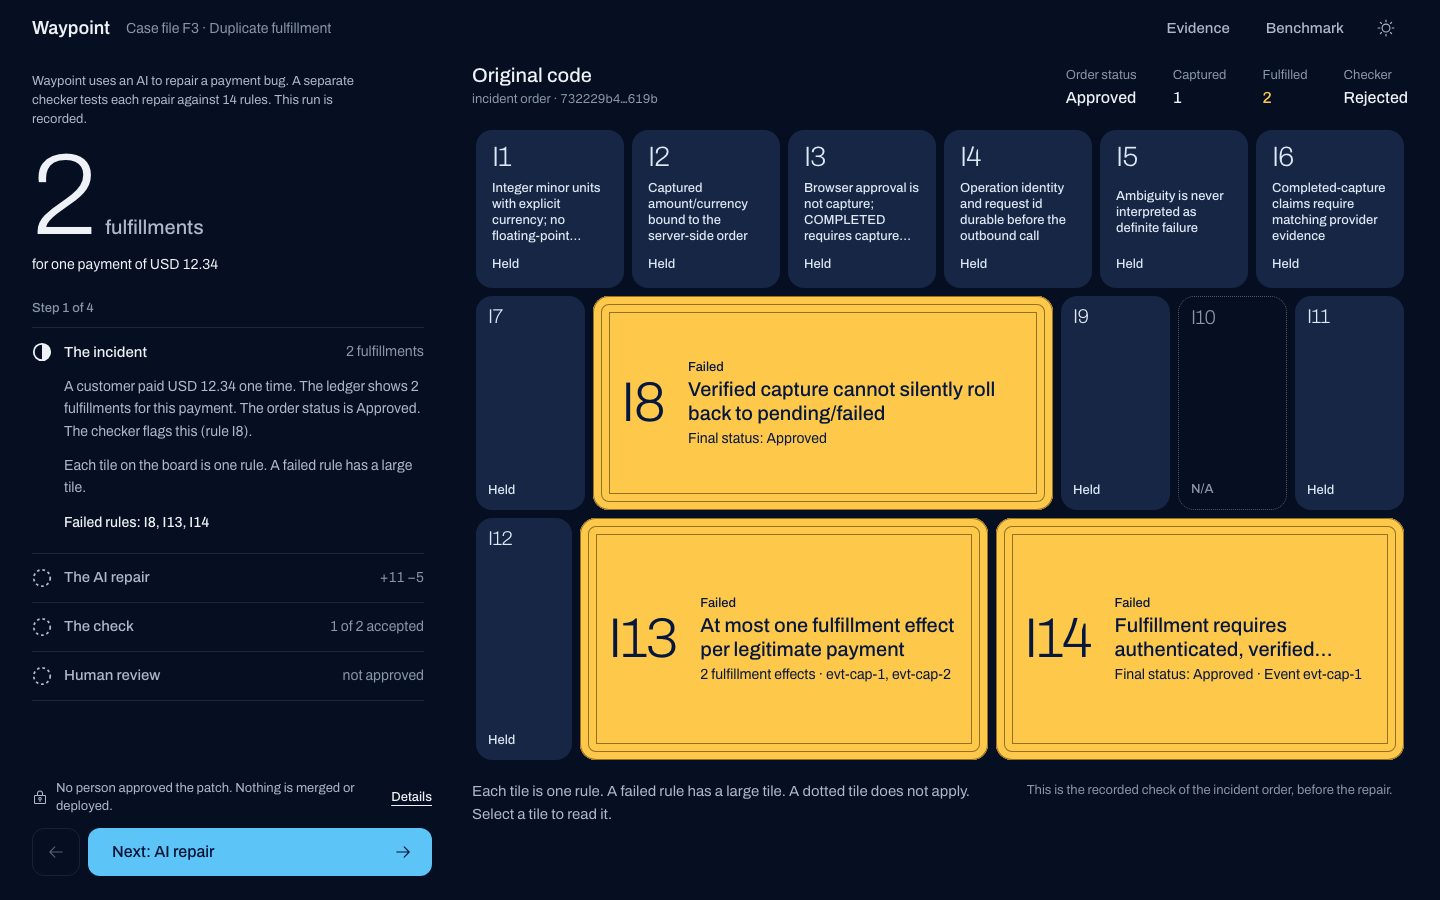
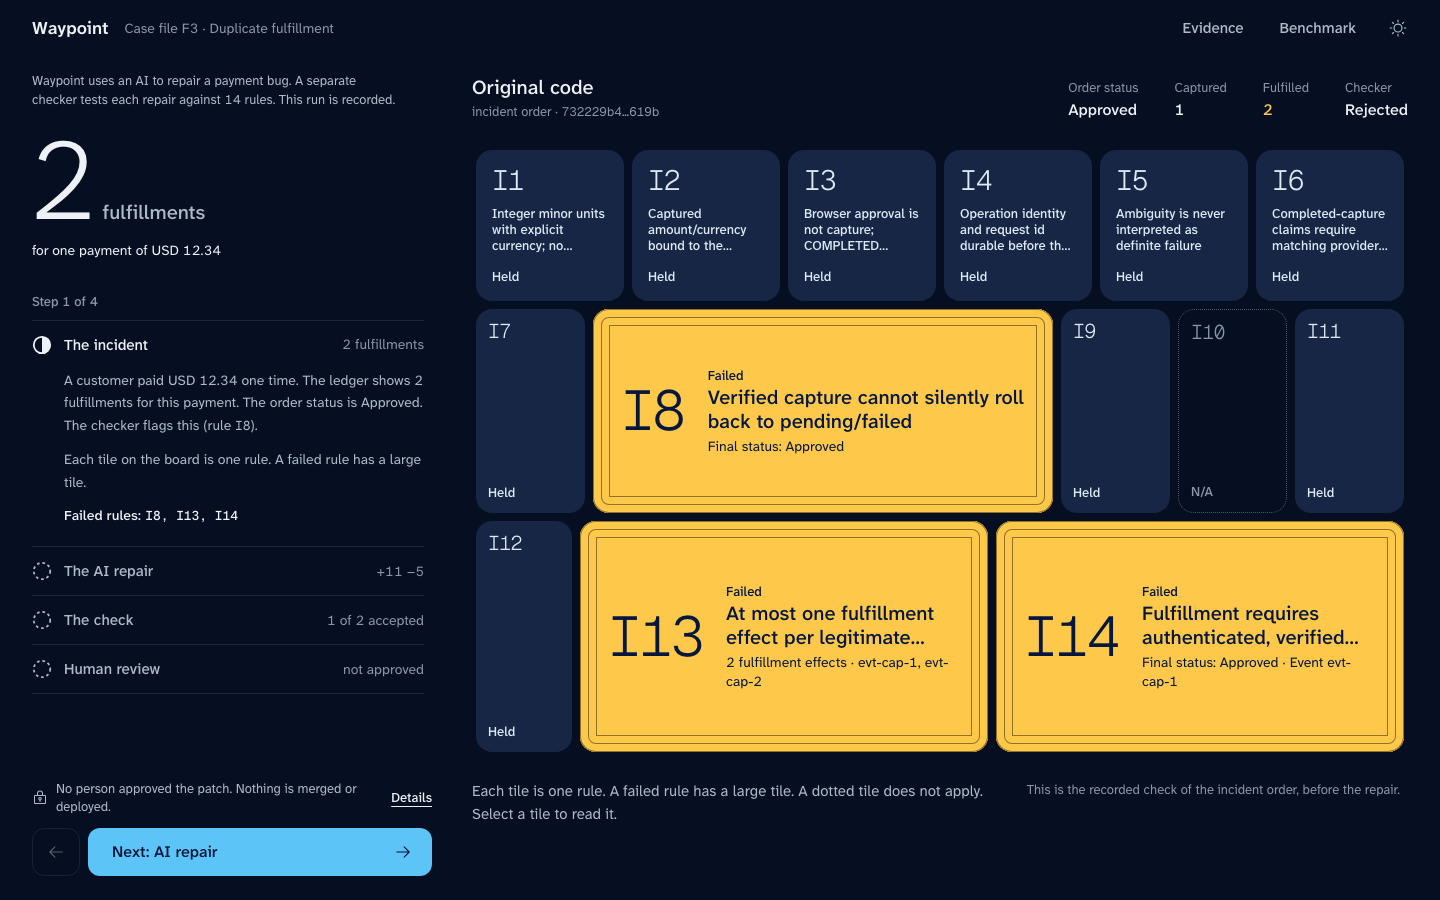
web: Atkinson Hyperlegible Next, mono rule ids and a steadier spacing rhythm
The capital I in a rule id read as the digit 1 (I11 looked like 111). Text now
uses Atkinson Hyperlegible Next, built to keep I, l and 1 apart, and every
rule id is set in Geist Mono, where I has serifs and 0 is slashed. Tile text
is top-aligned under the id with the state at the foot, the rail and stage
share one top line, the header's right edge lines up with the board, and
section gaps follow one scale.

diff --git a/apps/web/src/components/waypoint/experience.tsx b/apps/web/src/components/waypoint/experience.tsx
@@ -160,7 +160,7 @@ function Instrument({ doc, source }: { doc: DemoExport; source: EvidenceSource }
           <span className="text-[18px] font-semibold">Waypoint</span>
           <span className="truncate text-[14px] text-faint max-sm:hidden" data-testid="case-label">{caseLabel}</span>
         </div>
-        <nav aria-label="Primary" className="flex items-center gap-1">
+        <nav aria-label="Primary" className="flex items-center gap-1 sm:-mr-3">
           <button type="button" onClick={() => setDrawer(true)} className="inline-flex min-h-11 items-center rounded-[10px] px-4 text-[15px] font-medium text-muted transition-colors hover:text-ink">
             Evidence
           </button>
@@ -177,7 +177,7 @@ function Instrument({ doc, source }: { doc: DemoExport; source: EvidenceSource }
             <p className="max-w-[44ch] text-[13px] leading-[1.45] text-muted">
               Waypoint uses an AI to repair a payment bug. A separate checker tests each repair against {ruleCount} rules. This run is {source === "recorded" ? "recorded" : "local"}.
             </p>
-            <div key={step} className="enter mt-5" data-testid="hero">
+            <div key={step} className="enter mt-6" data-testid="hero">
               <div className="flex items-baseline gap-3">
                 <span className="numeral text-[clamp(5.5rem,8vw,7.4rem)]" data-testid="hero-value">{hero.value}</span>
                 <span className="text-[20px] font-medium text-muted">{hero.unit}</span>
@@ -186,7 +186,7 @@ function Instrument({ doc, source }: { doc: DemoExport; source: EvidenceSource }
             </div>
           </div>
 
-          <nav aria-label="Walkthrough" className="order-3 mt-6 min-h-0 lg:order-none lg:flex-1 lg:overflow-y-auto lg:pb-6 lg:pr-2 lg:[mask-image:linear-gradient(to_bottom,black_calc(100%-24px),transparent)]">
+          <nav aria-label="Walkthrough" className="order-3 mt-8 min-h-0 lg:order-none lg:flex-1 lg:overflow-y-auto lg:pb-6 lg:pr-2 lg:[mask-image:linear-gradient(to_bottom,black_calc(100%-24px),transparent)]">
             <p className="text-[13px] font-medium text-faint" data-testid="step-count">Step {step + 1} of {STEPS.length}</p>
             <ol className="mt-2 border-t border-line">
               {STEPS.map((title, i) => {
@@ -252,7 +252,7 @@ function Instrument({ doc, source }: { doc: DemoExport; source: EvidenceSource }
           </div>
         </div>
 
-        <section aria-label="Stage" className="order-2 mt-8 flex min-h-0 flex-col lg:order-none lg:mt-0 lg:pt-1">
+        <section aria-label="Stage" className="order-2 mt-8 flex min-h-0 flex-col lg:order-none lg:mt-0 lg:pt-4">
           {step === 1 ? (
             <div key="repair" className="enter flex min-h-0 flex-1 flex-col">
               <RepairPanel doc={doc} />
@@ -263,7 +263,7 @@ function Instrument({ doc, source }: { doc: DemoExport; source: EvidenceSource }
             </div>
           ) : (
             <div key="board" className="flex min-h-0 flex-1 flex-col">
-              <div className="flex flex-wrap items-end justify-between gap-x-10 gap-y-3 pb-4" data-testid="candidate-facts" data-candidate={boardCol}>
+              <div className="flex flex-wrap items-end justify-between gap-x-10 gap-y-3 pb-6" data-testid="candidate-facts" data-candidate={boardCol}>
                 <div>
                   <p className="text-[20px] font-medium">{model.label}</p>
                   <p className="text-[13px] text-faint">
@@ -293,12 +293,12 @@ function Instrument({ doc, source }: { doc: DemoExport; source: EvidenceSource }
               <div className="h-[64svh] min-h-[432px] lg:h-auto lg:min-h-0 lg:flex-1">
                 <Board tiles={tiles} lit={model.verdict === "VERIFIED"} selected={picked} onSelect={setPicked} label={`${model.label}: ${tiles.length} rules`} />
               </div>
-              <div className="mt-4 grid gap-x-10 gap-y-3 lg:min-h-[96px] lg:grid-cols-[1.35fr_1fr]">
+              <div className="mt-6 grid gap-x-10 gap-y-3 lg:min-h-[96px] lg:grid-cols-[1.35fr_1fr]">
                 <div className="text-[15px] leading-[1.5]" aria-live="polite" data-testid="inspector">
                   {tile ? (
                     <>
                       <p>
-                        <b className="font-medium">{tile.id} · {stateWord(tile.status)}.</b> {tile.title}
+                        <b className="font-medium"><span className="mono">{tile.id}</span> · {stateWord(tile.status)}.</b> {tile.title}
                       </p>
                       {counterexampleFacts(tile.counterexample).length ? (
                         <p className="mt-1 text-muted">{counterexampleFacts(tile.counterexample).join(" · ")}</p>
@@ -353,10 +353,10 @@ function StepBody({
       <div className="space-y-3">
         <p className={p}>
           A customer paid {amount} one time. The ledger shows {fig.incident.fulfilled ?? "more than 1"} fulfillments for this payment.
-          {fig.incident.statusFlagged ? ` The order status is ${humanStatus(models.before.status)}. The checker flags this (rule I8).` : ""}
+          {fig.incident.statusFlagged ? (<> The order status is {humanStatus(models.before.status)}. The checker flags this (rule <span className="mono">I8</span>).</>) : null}
         </p>
         <p className={p}>Each tile on the board is one rule. A failed rule has a large tile.</p>
-        {fig.incident.failed.length ? <p className="text-[14px] font-medium">Failed rules: {fig.incident.failed.join(", ")}</p> : null}
+        {fig.incident.failed.length ? <p className="text-[14px] font-medium">Failed rules: <span className="mono">{fig.incident.failed.join(", ")}</span></p> : null}
       </div>
     );
   }
@@ -425,7 +425,7 @@ function StepBody({
                 >
                   <span className="flex-1">
                     <span className="block text-[15px] font-medium">{mm.label}</span>
-                    <span className="block text-[13px] text-faint">{verdictWord(mm.verdict)}{mm.failed.length ? ` · fails ${mm.failed.join(", ")}` : " · no failed rule"}</span>
+                    <span className="block text-[13px] text-faint">{verdictWord(mm.verdict)}{mm.failed.length ? <> · fails <span className="mono">{mm.failed.join(", ")}</span></> : " · no failed rule"}</span>
                   </span>
                   <span className="text-[14px] tabular-nums text-faint">{mm.fulfilled ?? "?"} fulfillment{mm.fulfilled === 1 ? "" : "s"}</span>
                 </button>

diff --git a/apps/web/src/components/waypoint/board.tsx b/apps/web/src/components/waypoint/board.tsx
@@ -121,12 +121,12 @@ export function Board({
               onClick={() => onSelect(selected === t.id ? null : t.id)}
               style={tileStyle(t.status, lit, variant)}
               className={`flex size-full min-w-0 overflow-hidden rounded-[16px] text-left transition-[filter,outline-color] duration-200 hover:brightness-110 ${PAD[variant]} ${
-                variant === "wide" ? "flex-row items-center gap-6" : "flex-col justify-between"
+                variant === "wide" ? "flex-row items-center gap-6" : "flex-col"
               } ${selected === t.id ? "outline outline-2 outline-offset-2 outline-accent" : "outline outline-2 outline-offset-2 outline-transparent"}`}
             >
               {variant === "wide" ? (
                 <>
-                  <span className="numeral shrink-0 text-[56px]">{t.id}</span>
+                  <span className="idmark shrink-0 text-[56px]">{t.id}</span>
                   <span className="min-w-0 flex-1">
                     <span className="block text-[13px] font-medium">{word}</span>
                     <span className="block text-[20px] font-medium leading-[1.2]" style={clamp(2)}>{t.title}</span>
@@ -136,15 +136,15 @@ export function Board({
               ) : (
                 <>
                   <span className="flex items-baseline justify-between gap-2">
-                    <span className={`numeral ${variant === "big" ? "text-[56px]" : variant === "mid" ? "text-[28px]" : "text-[20px]"}`}>{t.id}</span>
+                    <span className={`idmark ${variant === "big" ? "text-[56px]" : variant === "mid" ? "text-[28px]" : "text-[20px]"}`}>{t.id}</span>
                     {variant === "big" ? <span className="text-[14px] font-medium">{word}</span> : null}
                   </span>
                   {variant === "big" ? (
-                    <span className="block text-[20px] font-medium leading-[1.25] [overflow-wrap:anywhere]">{t.title}</span>
+                    <span className="mt-4 block text-[20px] font-medium leading-[1.25] [overflow-wrap:anywhere]">{t.title}</span>
                   ) : variant === "mid" && titleLines >= 2 ? (
-                    <span className="block min-h-0 text-[13px] font-medium leading-[1.25]" style={clamp(titleLines)}>{t.title}</span>
+                    <span className="mt-3 block min-h-0 text-[13px] font-medium leading-[1.25]" style={clamp(titleLines)}>{t.title}</span>
                   ) : null}
-                  <span className="block">
+                  <span className="mt-auto block pt-3">
                     {facts.length ? (
                       <span className="mb-2 block space-y-1 text-[14px] leading-snug">
                         {facts.map((f) => (

diff --git a/apps/web/src/components/waypoint/evidence-drawer.tsx b/apps/web/src/components/waypoint/evidence-drawer.tsx
@@ -100,7 +100,7 @@ export function EvidenceDrawer({ doc, source, open, onClose }: { doc: DemoExport
                       className="grid w-full grid-cols-[minmax(0,1fr)_repeat(3,3.4rem)] items-center gap-1 py-3 text-left transition-colors hover:bg-surface sm:grid-cols-[minmax(0,1fr)_repeat(3,4.6rem)]"
                     >
                       <span className="flex min-w-0 items-baseline gap-3 pr-1">
-                        <span className="w-9 shrink-0 text-[16px] font-medium">{row.id}</span>
+                        <span className="mono w-10 shrink-0 text-[15px] font-medium">{row.id}</span>
                         <span className="min-w-0 break-words text-[14px] leading-snug text-muted">{(row.repair ?? row.before ?? row.unsafe)?.title ?? row.summary}</span>
                       </span>
                       {COLS.map((c) => (

diff --git a/apps/web/src/app/globals.css b/apps/web/src/app/globals.css
@@ -112,7 +112,7 @@
   --color-lit: var(--tile-lit);
   --color-lit-ink: var(--tile-lit-ink);
   --radius-panel: 12px;
-  --font-sans: "Archivo Variable", ui-sans-serif, system-ui, sans-serif;
+  --font-sans: "Atkinson Hyperlegible Next Variable", ui-sans-serif, system-ui, sans-serif;
   --font-mono: var(--font-geist-mono), ui-monospace, SFMono-Regular, Menlo, monospace;
 }
 
@@ -159,6 +159,14 @@
     font-family: var(--font-mono);
     font-variant-numeric: tabular-nums;
     font-size: max(0.92em, 12.5px);
+  }
+
+  /* A rule id such as I13. Mono keeps the capital I apart from the digit 1. */
+  .idmark {
+    font-family: var(--font-mono);
+    font-weight: 300;
+    letter-spacing: -0.04em;
+    line-height: 1;
   }
 
   /* The lead number: very light, very large, tightly set. */

diff --git a/apps/web/src/app/layout.tsx b/apps/web/src/app/layout.tsx
@@ -1,7 +1,7 @@
 import type { Metadata } from "next";
 import { GeistMono } from "geist/font/mono";
 
-import "@fontsource-variable/archivo/wdth.css";
+import "@fontsource-variable/atkinson-hyperlegible-next/index.css";
 import { SiteHeader } from "@/components/site-header";
 import { themeScript } from "@/components/theme-toggle";
 import "./globals.css";

diff --git a/apps/web/README.md b/apps/web/README.md
@@ -39,7 +39,7 @@ strip-treemap layout (`src/lib/treemap.ts`).
 Design: dark by default with a light toggle (`html[data-theme]`, remembered per browser). The
 palette borrows PayPal's: navy ground, PayPal blue for what the checker accepted and its yellow for
 what failed (a colour inspiration for the PayPal hackathon, not affiliation or endorsement).
-Archivo for text and the lead number, Geist Mono for ids and code only; no text under 12.5px;
+Atkinson Hyperlegible Next for text and the lead number (it keeps I, l and 1 apart), Geist Mono for rule ids and code; no text under 12.5px;
 status is never colour alone; patch annotations are bound to the patch digest.
 
 See the repository root `README.md` for full project context.
